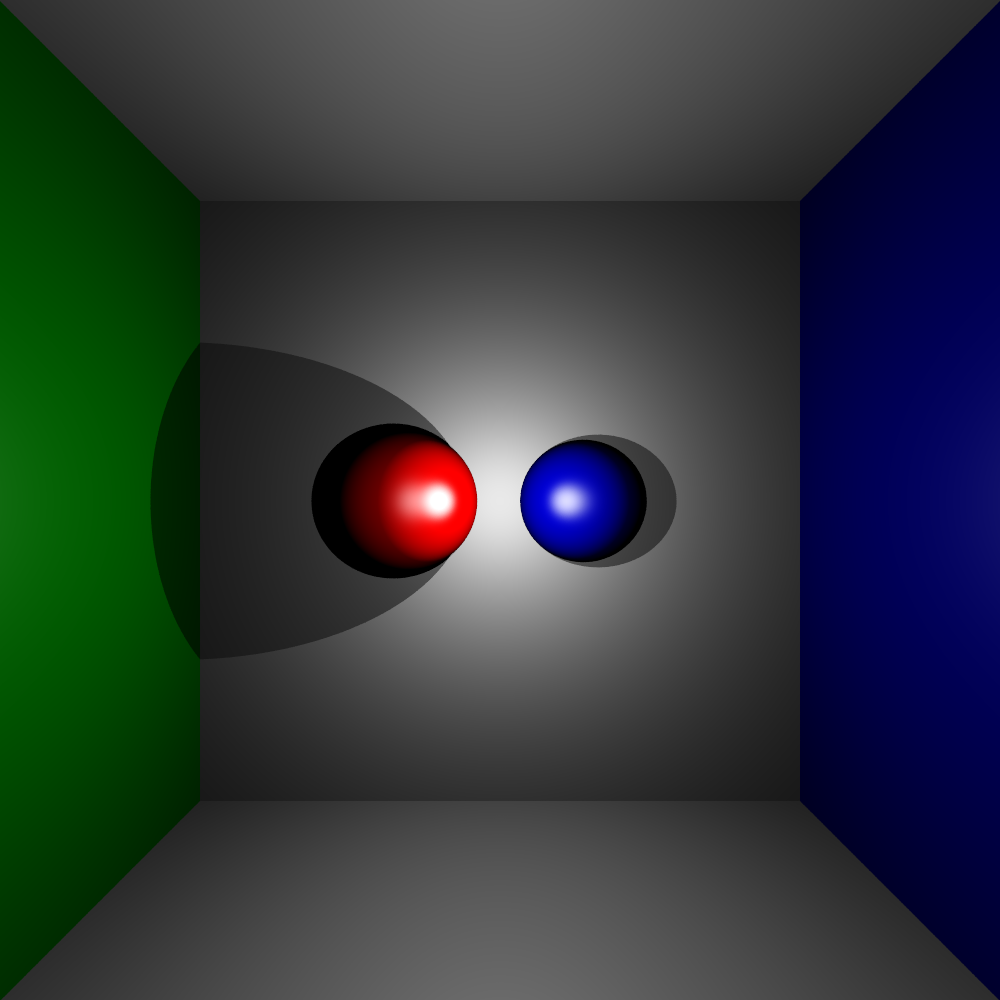
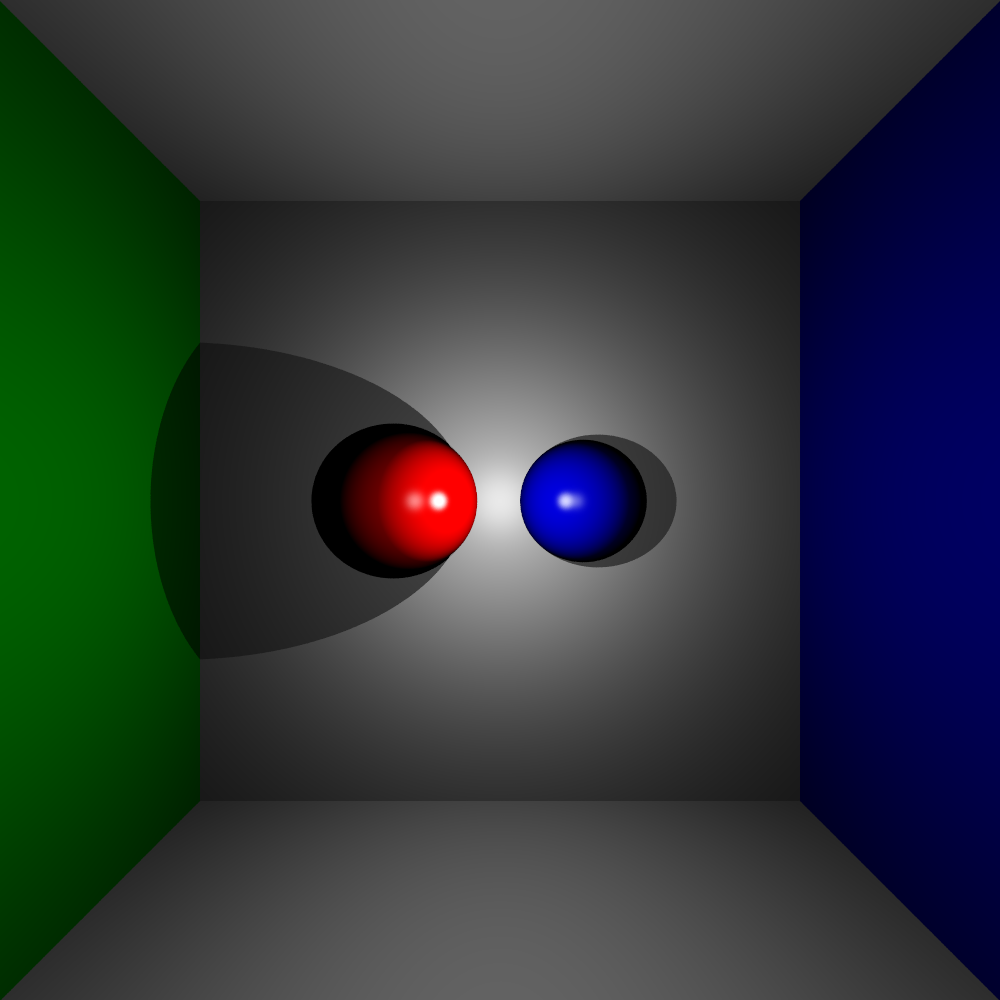
Mise à jour du projet avec des améliorations et des ajouts
- Ajout de la récupération et de l'affichage du nombre de threads dans `main()` de `RaytracingEngine.cpp`.
- Mise à jour du fichier projet `RaytracingEngine.vcxproj` avec des répertoires d'inclusion et de bibliothèques supplémentaires.
- Remplacement de `getIntersections` par `intersectClosest` dans `Scene.h` pour une détection d'intersections plus efficace.
- Introduction de `intersectAnyBefore` pour améliorer le calcul des ombres.
- Changement de la valeur par défaut de `shininess` dans `Material` de 32.0 à 128.0.
- Modifications détectées dans plusieurs fichiers d'images binaires.

Changed region(s): [[0.465, 0.434, 0.589, 0.558], [0.372, 0.465, 0.465, 0.527]]

diff --git a/RaytracingEngine/Scene.h b/RaytracingEngine/Scene.h
@@ -85,29 +85,51 @@ public:
 		}
 	}
 
-	std::vector<HitInfo> getIntersections(const Rayon& ray) const
-	{
-		const std::size_t size = spheres.size() + planes.size();
-		std::vector<HitInfo> intersections(size, { std::numeric_limits<double>::infinity(), HitType::NONE, std::nullopt, Vec3() });
+	HitInfo intersectClosest(const Rayon& ray) const {
+		HitInfo closest{ std::numeric_limits<double>::infinity(), HitType::NONE, std::nullopt, Vec3() };
 
 		for (std::size_t sphereIndex = 0; sphereIndex < spheres.size(); ++sphereIndex) {
-			const Sphere& shape = spheres[sphereIndex];
-			intersections[sphereIndex] = shape.getHitInfoAt(ray, sphereIndex);
+			const Sphere& s = spheres[sphereIndex];
+			HitInfo hit = s.getHitInfoAt(ray, static_cast<int>(sphereIndex));
+			if (hit.hasHitSomething() && hit.isCloserThan(closest)) {
+				closest = hit;
+			}
 		}
 
-		for (std::size_t planeIndex = 0; planeIndex < planes.size(); ++planeIndex)
-		{
-			const Plane& shape = planes[planeIndex];
-			intersections[spheres.size() + planeIndex] = shape.getHitInfoAt(ray, planeIndex);
+		for (std::size_t planeIndex = 0; planeIndex < planes.size(); ++planeIndex) {
+			const Plane& p = planes[planeIndex];
+			HitInfo hit = p.getHitInfoAt(ray, static_cast<int>(planeIndex));
+			if (hit.hasHitSomething() && hit.isCloserThan(closest)) {
+				closest = hit;
+			}
 		}
 
-		return intersections;
+		return closest;
+	}
+
+	bool intersectAnyBefore(const Rayon& ray, double maxDist) const {
+		for (std::size_t sphereIndex = 0; sphereIndex < spheres.size(); ++sphereIndex) {
+			auto t = spheres[sphereIndex].intersect(ray);
+			if (t.has_value()) {
+				double dist = t.value();
+				if (dist > 0.0 && dist < maxDist) return true;
+			}
+		}
+
+		for (std::size_t planeIndex = 0; planeIndex < planes.size(); ++planeIndex) {
+			auto t = planes[planeIndex].intersect(ray);
+			if (t.has_value()) {
+				double dist = t.value();
+				if (dist > 0.0 && dist < maxDist) return true;
+			}
+		}
+
+		return false;
 	}
 
 	HitInfo CalculatePixelDepth(std::size_t x, std::size_t y, bool aa) const {
 		Rayon ray = camera.getRay(x, y, aa);
-		std::vector<HitInfo> intersections = getIntersections(ray);
-		HitInfo closest = HitInfo::getClosestIntersection(intersections);
+		HitInfo closest = intersectClosest(ray);
 		return closest;
 	}
 
@@ -139,16 +161,13 @@ public:
 
 			for (const Light& light : lights) {
 				double dist = light.distanceTo(closest.hitPoint);
-				if (dist <= 1e-6) {
+				if (dist <= bias) {
 					continue;
 				}
 				Vec3 Ldir = light.dirTo(closest.hitPoint);
 
 				Rayon shadowRay = light.shadowRayFrom(closest.hitPoint, bias);
-				std::vector<HitInfo> shadowIntersections = getIntersections(shadowRay);
-				HitInfo shadowHit = HitInfo::getClosestIntersection(shadowIntersections);
-
-				if (shadowHit.hasHitSomething() && shadowHit.distance < (dist - bias)) {
+				if (intersectAnyBefore(shadowRay, dist - bias)) {
 					continue;
 				}
 

diff --git a/RaytracingEngine/RaytracingEngine.cpp b/RaytracingEngine/RaytracingEngine.cpp
@@ -161,6 +161,9 @@ std::vector<std::vector<Color>> tonemapAll(const std::vector<Vec3> pixels)
 
 int main()
 {
+	int n_threads = omp_get_max_threads();
+	std::cout << "Nombre de threads par défaut : " << n_threads << "\n";
+
 	Vec3 origin = Vec3(0, 0, -10);
 	Camera camera = Camera(origin, 500, WIDTH, HEIGHT, 0, 200);
 	Scene scene = Scene(camera);

diff --git a/RaytracingEngine/Shape.h b/RaytracingEngine/Shape.h
@@ -12,7 +12,7 @@ struct Transform {
 
 struct Material {
 	Vec3 color;
-	double shininess = 32.0;
+	double shininess = 128.0;
 
 	Vec3 calculateSpecular(const Vec3& lightDir, const Vec3& viewDir, const Vec3& normal) const {
 		Vec3 reflectDir = (lightDir - normal * 2.0 * lightDir.dot(normal)).normalize();
